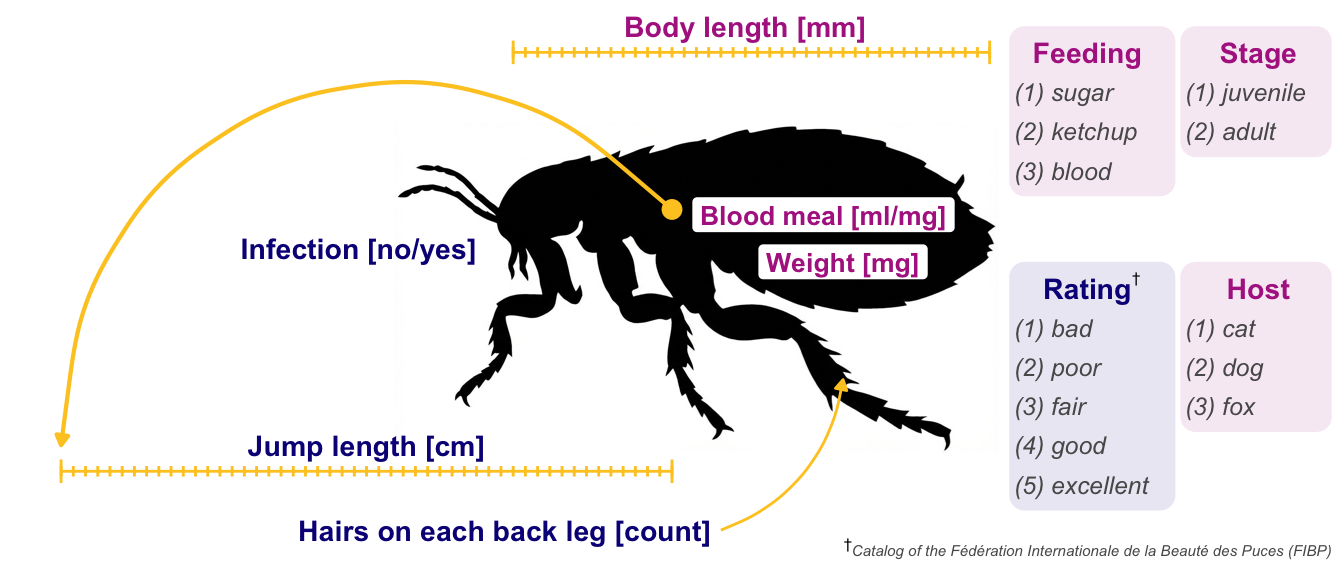
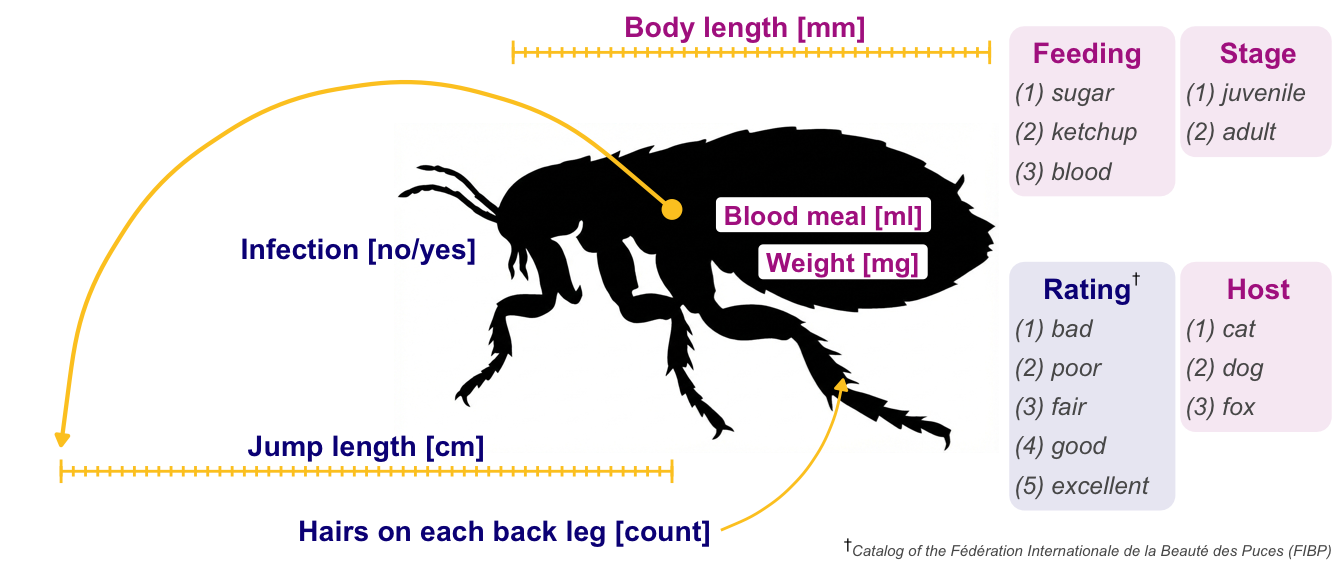
added

Changed region(s): [[0.5, 0.3438, 0.7188, 0.4062]]

diff --git a/docs/chapter-10-preface.html b/docs/chapter-10-preface.html
@@ -437,7 +437,7 @@ window.Quarto = {
 </header>
 
 
-<p><em>Last modified on 27. May 2026 at 20:58:45</em></p>
+<p><em>Last modified on 04. June 2026 at 13:30:28</em></p>
 <blockquote class="blockquote">
 <p><em>“X-Factor, the unfathomable. We live in a world where dreams and reality are closely intertwined, where facts often seem like figments of the imagination that we cannot explain. Can you distinguish between truth and lies? Yours, Jonathan Frakes.” — German intro of Beyond Belief: Fact or Fiction</em></p>
 </blockquote>